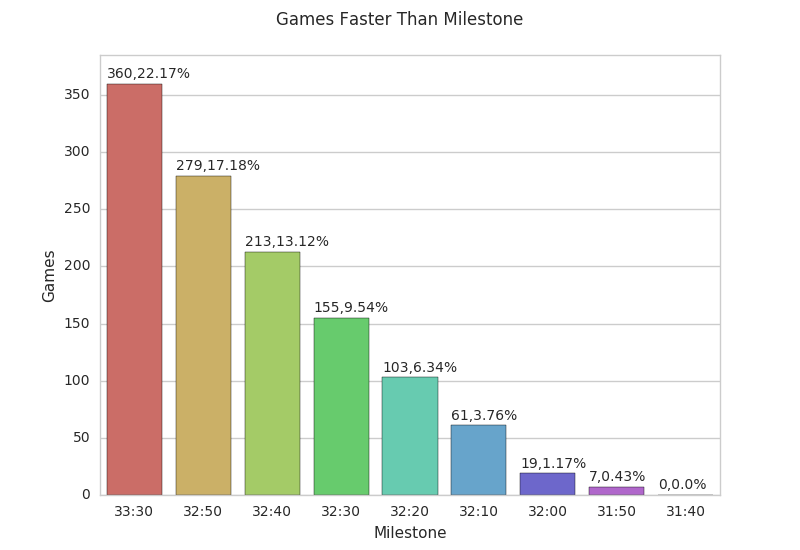
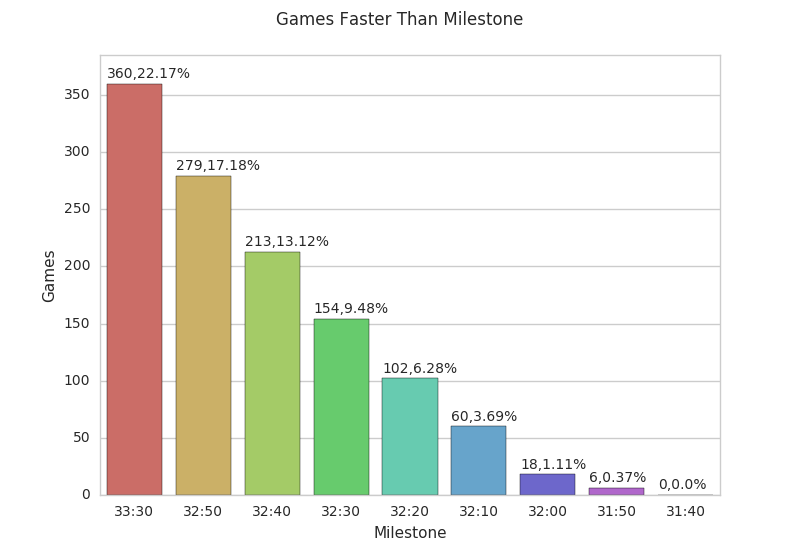
update

diff --git a/index.html b/index.html
@@ -44,7 +44,7 @@
   <div class="jumbotron">
     <div class="container">
       <h2>Castlevaniac: A Furious Paul fan page.</h2>
-        Last updated: 2017-02-18 21:01 PST -0800.
+        Last updated: 2017-02-18 21:31 PST -0800.
     </div>
 
       <div class="container">
@@ -58,8 +58,8 @@
 
           <h3>Last Game</h3>
 
-          Last game was 2017-02-18, had 0 deaths, and was
-          faster than 99.88 % of all previous games.
+          Last game was 2017-02-19, had 0 deaths, and was
+          faster than 89.96 % of all previous games.
 
           <h3>A short summary</h3>
 
@@ -68,11 +68,11 @@
 
           <br><br>
 
-          He has logged 3425996 seconds of finished games.
+          He has logged 3426041 seconds of finished games.
 
           <br><br>
 
-          For those of you keeping track, and I am, that's 39 days, 15 hours, 39 minutes, and 56 seconds.
+          For those of you keeping track, and I am, that's 39 days, 15 hours, 40 minutes, and 41 seconds.
 
       </div>
     <div>
@@ -81,7 +81,7 @@
           <table id="example" class="table dataTables_scrollBody dataTable table-hover table-bordered">
             <thead><tr><th>Date</th><th>Deaths</th><th>Time</th><th>Seconds</th></tr></thead>
             
-            <tr><td>2017-02-18</td><td>0</td><td>00:31:47</td><td>1907</td></tr>
+            <tr><td>2017-02-19</td><td>0</td><td>00:32:32</td><td>1952</td></tr>
             
             <tr><td>2017-02-18</td><td>0</td><td>00:31:47</td><td>1907</td></tr>
             
@@ -123,7 +123,7 @@
             
           </table>
             <h4> Last 20 games: </h4>
-            Average Time: 32:59.65
+            Average Time: 33:1.9
             <br>
             <br>
             Total Deaths: 25. Average Deaths: 1.25

diff --git a/games.html b/games.html
@@ -45,7 +45,7 @@
 <div class="jumbotron">
     <div class="container">
         <h2>Castlevaniac: Games</h2>
-        Last updated: 2017-02-18 21:01 PST -0800.
+        Last updated: 2017-02-18 21:31 PST -0800.
     </div>
 
     <div class="container">
@@ -142,7 +142,7 @@
         <div id=chart_ID class="chart"></div>
 	    	<script>
 	    		var chart_id = chart_ID
-	    		var series = [{'data': [{'y': 234, 'color': '#4878CF'}, {'y': 210, 'color': '#6ACC65'}, {'y': 279, 'color': '#D65F5F'}, {'y': 253, 'color': '#B47CC7'}, {'y': 248, 'color': '#C4AD66'}, {'y': 205, 'color': '#77BEDB'}, {'y': 195, 'color': '#8FBC8F'}], 'name': 'Day'}]
+	    		var series = [{'data': [{'y': 235, 'color': '#4878CF'}, {'y': 210, 'color': '#6ACC65'}, {'y': 279, 'color': '#D65F5F'}, {'y': 253, 'color': '#B47CC7'}, {'y': 248, 'color': '#C4AD66'}, {'y': 205, 'color': '#77BEDB'}, {'y': 194, 'color': '#8FBC8F'}], 'name': 'Day'}]
 	    		var title = {'text': 'Game Count by Weekday'}
 	    		var xAxis = {'categories': ['Sunday', 'Monday', 'Tuesday', 'Wednesday', 'Thursday', 'Friday', 'Saturday']}
 	    		var yAxis = {'title': {'text': 'Games'}}

diff --git a/deaths.html b/deaths.html
@@ -44,7 +44,7 @@
 <div class="jumbotron">
     <div class="container">
         <h2>Castlevaniac: Deaths</h2>
-        Last updated: 2017-02-18 21:01 PST -0800.
+        Last updated: 2017-02-18 21:31 PST -0800.
     </div>
 
         <div class="container">

diff --git a/about.html b/about.html
@@ -31,7 +31,7 @@
 <div class="jumbotron">
     <div class="container">
         <h2>Castlevaniac: About</h2>
-        Last updated: 2017-02-18 21:01 PST -0800.
+        Last updated: 2017-02-18 21:31 PST -0800.
     </div>
 
     <div class="container">
